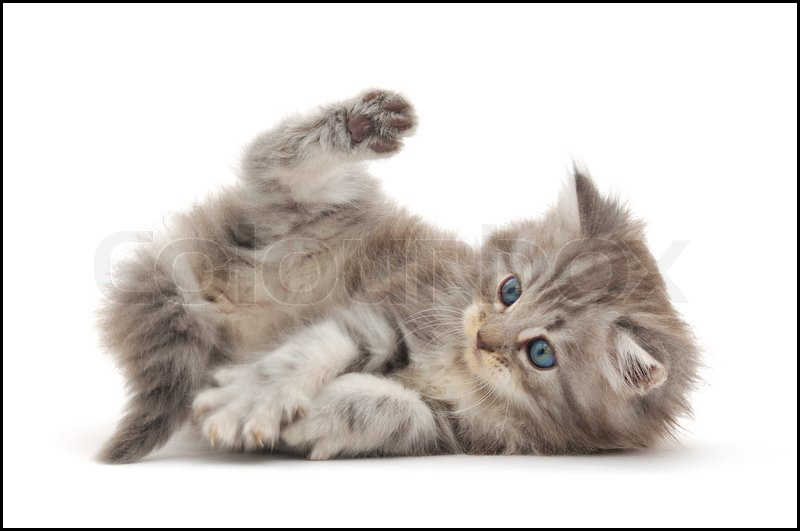
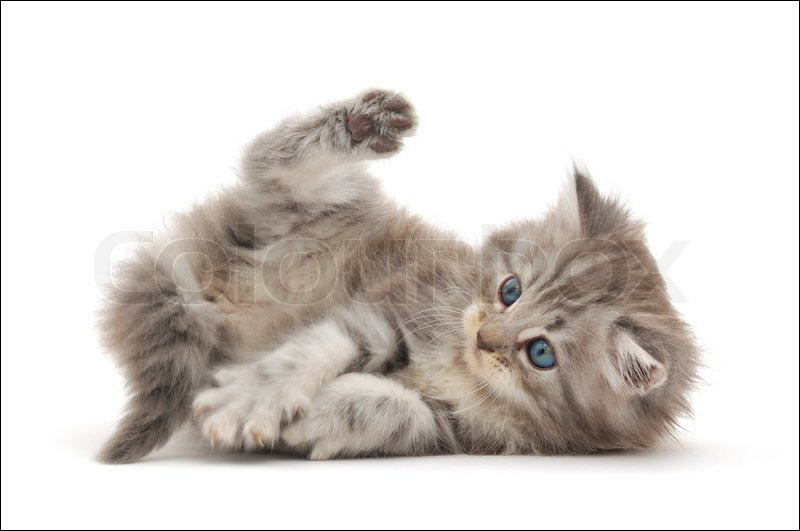
update image example

Changed region(s): [[0.0, 0.9944, 1.0, 1.0], [0.0, 0.0, 1.0, 0.0301]]

diff --git a/example_directives_delete.rst b/example_directives_delete.rst
@@ -9,9 +9,15 @@
 STYLE TIPS - DELETE THIS PAGE BEFORE PUBLISHING
 --------------------------------------------------
 
+    .. tip::
+
+         Check the code (.rst) source to see how these examples are written
+         in restructured text. 
+
+
 .. #### Comment: short description
 
-Writing your documentation using sample data
+Many of the examples Writing your documentation using sample data
 ~~~~~~~~~~~~~~~~~~~~~~~~~~~~~~~~~~~~~~~~~~~~~~
 
 Where possible, you want write documentation instructions to be general enough
@@ -94,13 +100,13 @@ Better size
  |Right-size kitten|
 
 .. |Right-size kitten| image:: ./img/kitten_no_border.png
-    :width: 500
-    :height: 100
+    :width: 400
+    :height: 350
 
-Images should have a 2px black border
+Images should have a 1px black border
 
  |Right-size kitten w border|
 
 .. |Right-size kitten w border| image:: ./img/kitten_w_border.png
-    :width: 500
-    :height: 100
+    :width: 400
+    :height: 350
